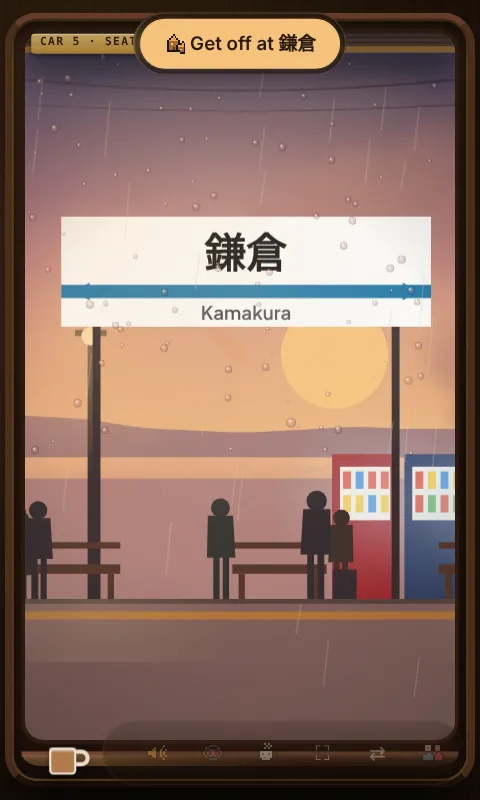
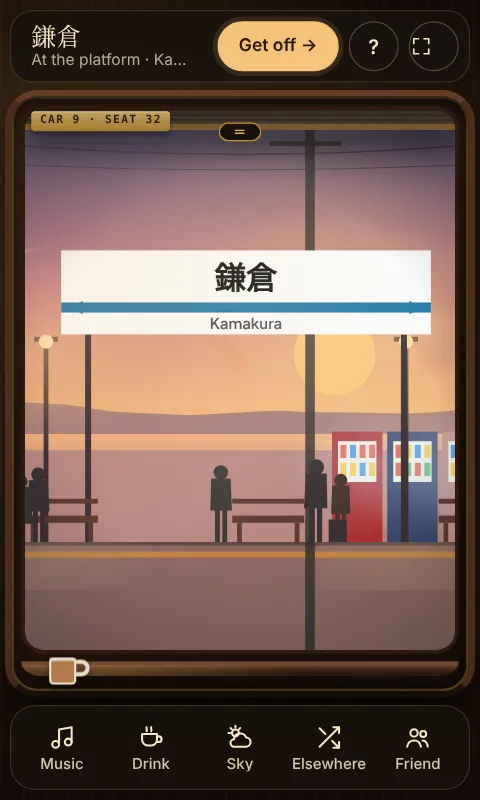
Nearby Station: the share card fits phones upright and sideways, in town and in the app (it scrolls if a screen is shorter still). The standalone app gets a clean frame: one top bar (the station, what's next, Stop here then Get off, ?, full screen), the window between, one labelled bottom bar (Music
Claude-Session: https://claude.ai/code/session_01MUvzkAwQo5i5GES16poo5v

diff --git a/after-hours/index.html b/after-hours/index.html
@@ -297,7 +297,7 @@ img{filter:none}
         </div>
       </article>
       <article id="station" class="proj reveal flip" style="--glow:#6F93D8">
-        <a class="shot" href="https://www.freebuilder.net/station/" target="_blank" rel="noopener noreferrer" tabindex="-1" aria-hidden="true"><img src="/after-hours/station.webp?v=41bfd5f1" width="480" height="800" loading="lazy" alt=""></a>
+        <a class="shot" href="https://www.freebuilder.net/station/" target="_blank" rel="noopener noreferrer" tabindex="-1" aria-hidden="true"><img src="/after-hours/station.webp?v=774e227c" width="480" height="800" loading="lazy" alt=""></a>
         <div class="ptxt">
           <p class="pn"><span class="pnum">06</span><span class="pbar" aria-hidden="true"></span></p>
           <h3 class="dh"><span data-i18n="stName">Nearby Station</span></h3>
